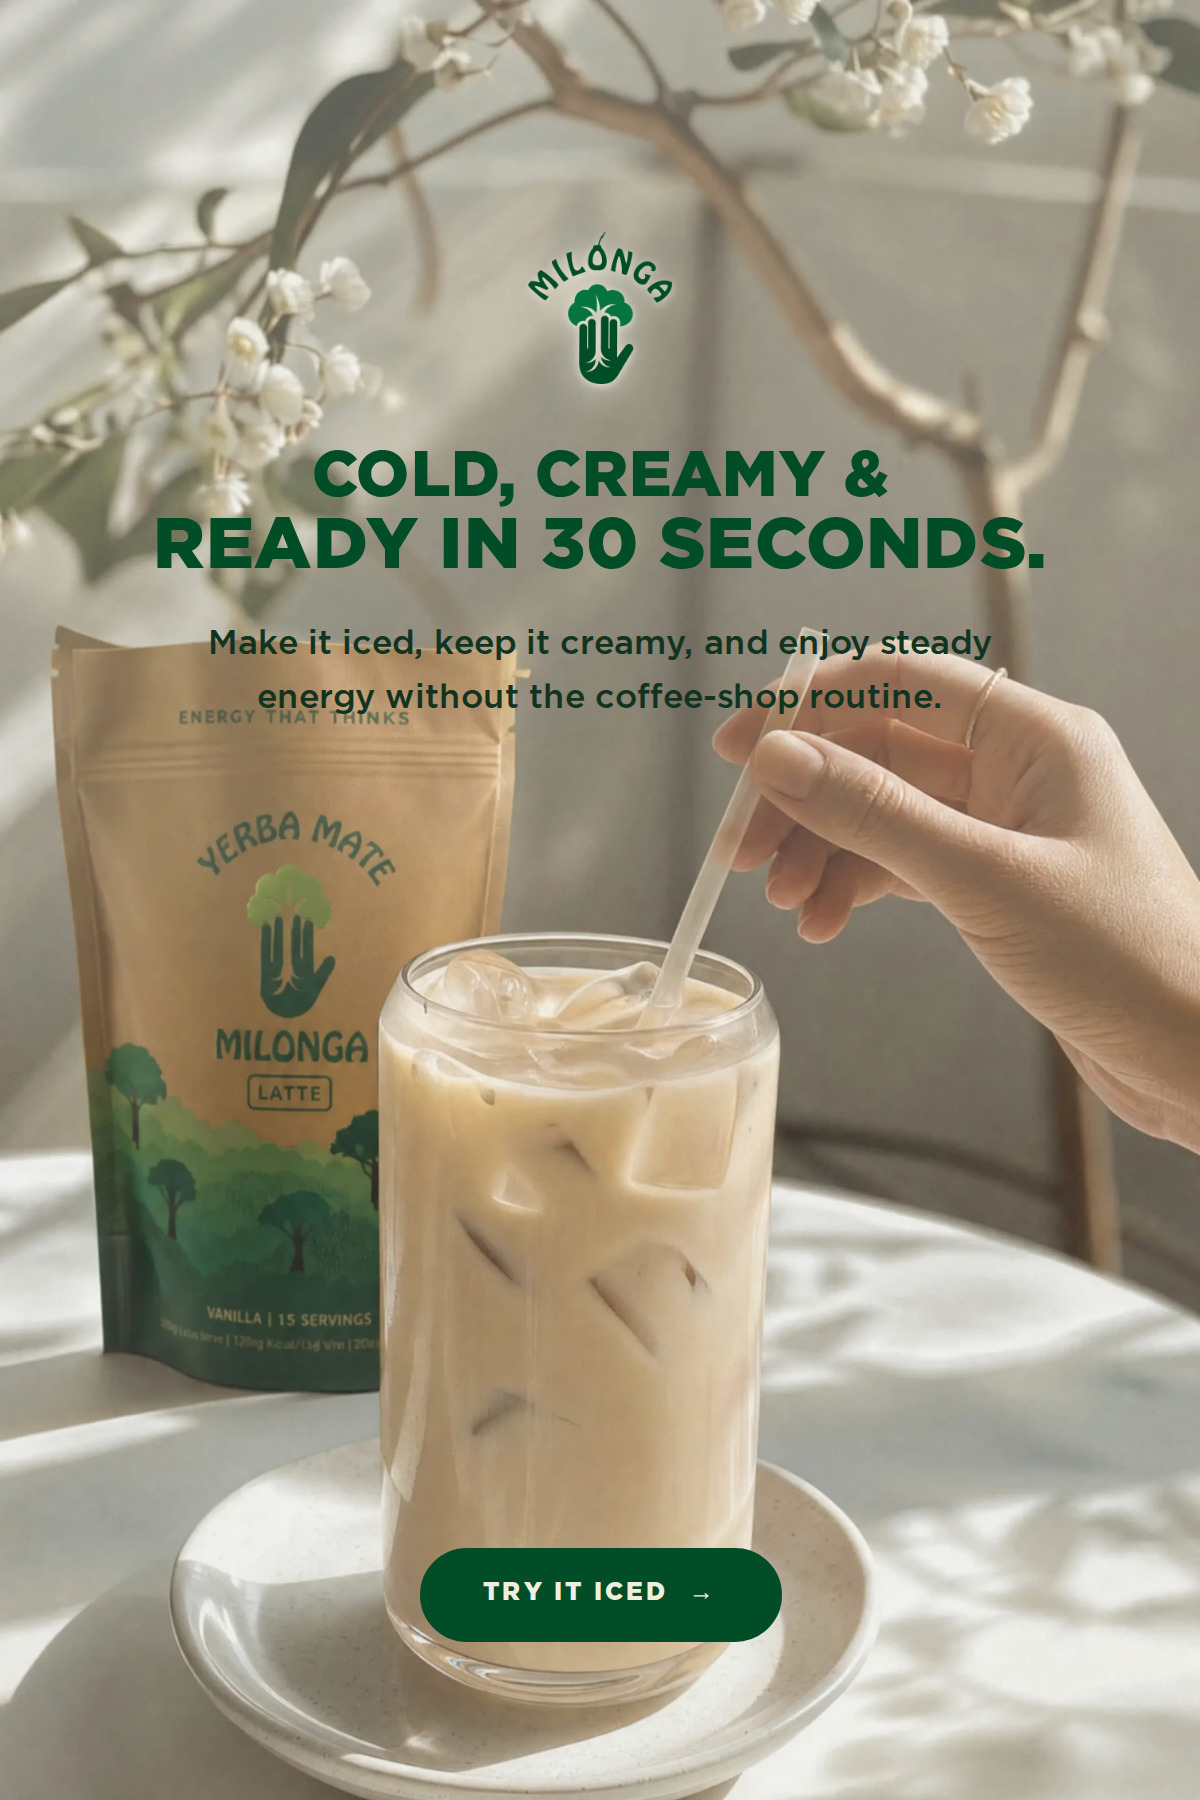
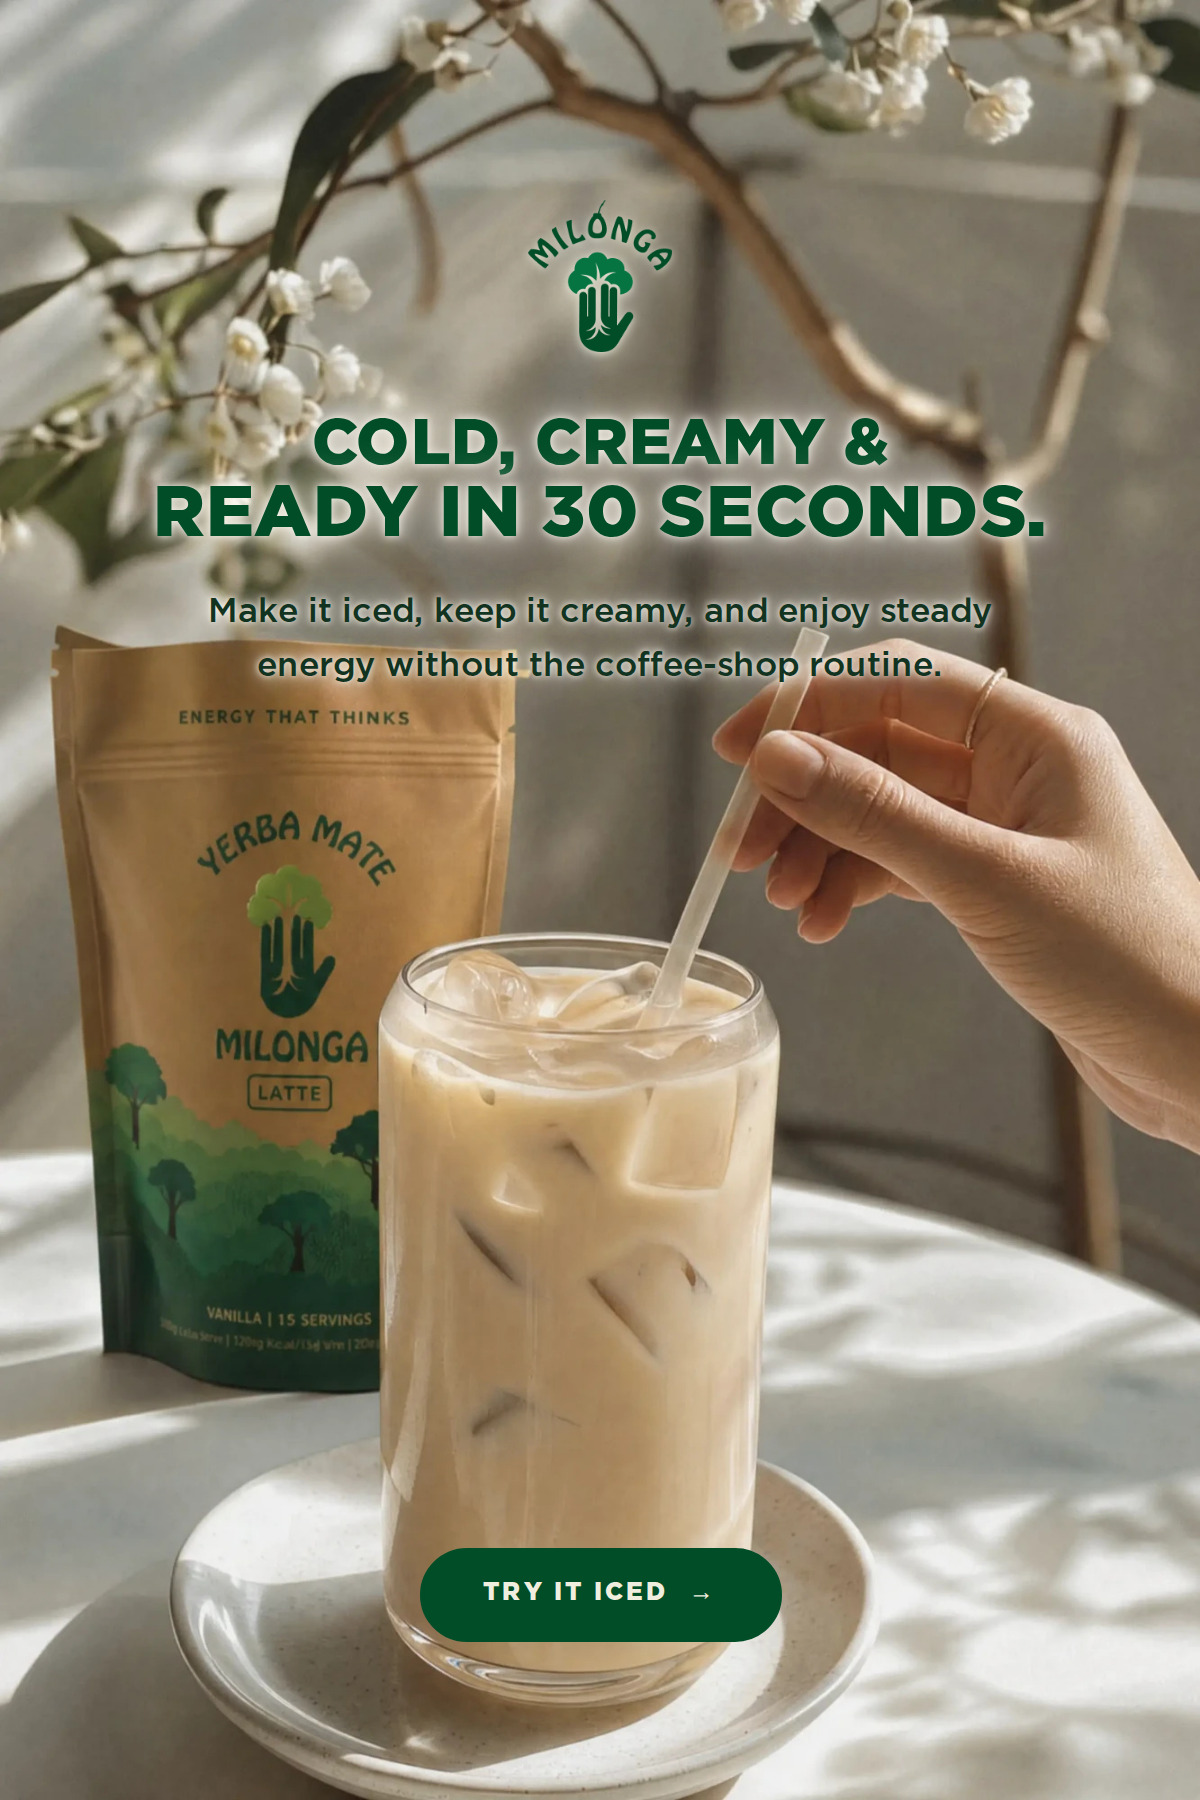
email: how-to-make-it, the photograph goes in untouched
No scrim and no cream lift on the opener. Wordmark up to 16 from the head,
title and paragraph up 16 with it.

The lift was solving a real problem and it still exists: measured across the
band the wordmark occupies, this picture runs a mean of 120 with a minimum of
39 — pale wall and bright blossom crossed by dark twigs, so forest green
holds on the wall and disappears on the twigs. The type carries its own
ground now instead. A CREAM halo sits behind the letters and nowhere else; a
dark halo behind dark letters only thickens them into a smudge, while a pale
one separates them from whatever is underneath and costs the photograph
nothing.

Both split images re-cut at the same colour edge, y=1800.

Claude-Session: https://claude.ai/code/session_01NhEtXPnfeCJfN73SqBkUZ5

diff --git a/email-ds/emails/how-to-make-it.jsx b/email-ds/emails/how-to-make-it.jsx
@@ -19,14 +19,17 @@ function HowToMakeIt() {
     // button below that — the whole reading in the top third, with the glass
     // and the pouch taking the rest of the frame untouched.
     //
-    // THE WASH IS CREAM, NOT A SCRIM. Measured across the band the wordmark
-    // occupies, this picture runs a mean of 120 with a minimum of 39: pale
-    // wall and bright blossom, crossed by dark twigs. Forest green holds on
-    // the wall and disappears on the twigs, which is the whole problem with
-    // a mixed ground. Lifting that band toward cream — the same control as a
-    // scrim, in the other direction — closes the range from underneath and
-    // lets one dark ink hold across all of it, without dimming a morning
-    // photograph to save a hundred letters.
+    // NOTHING IS DONE TO THE PICTURE. No scrim, no cream lift — the
+    // photograph goes in exactly as shot.
+    //
+    // That still leaves the problem the lift was solving. Measured across the
+    // band the wordmark occupies, this picture runs a mean of 120 with a
+    // minimum of 39: pale wall and bright blossom, crossed by dark twigs, and
+    // forest green holds on the wall while it disappears on the twigs. So the
+    // type carries its own ground instead — a CREAM halo, sitting behind the
+    // letters and nowhere else. A dark halo behind dark letters only thickens
+    // them into a smudge; a pale one separates them from whatever is under
+    // them, and costs the photograph nothing at all.
     h(M.T9Story, {
       src: '../public/product/latte-iced-table.jpg',
       alt: 'Cold, creamy and ready in 30 seconds. A tall glass of iced Milonga Mate Latte on a table in morning light, a hand stirring it with a straw, the vanilla Mate Latte pouch behind it and a branch of white blossom above. Try it iced.',
@@ -36,7 +39,7 @@ function HowToMakeIt() {
       // is the brand signing the email; below about 52 it reads as a
       // watermark instead.
       logoHeight: 76,
-      logoTop: 24,
+      logoTop: 16,
       align: 'center',
       line1: 'Cold, creamy &',
       line2: 'ready in 30 seconds.',
@@ -54,14 +57,12 @@ function HowToMakeIt() {
       size: 32,
       size2: 36,
       titleLead: 1.02,
-      top: 116,
+      top: 100,
       padLeft: 26,
       padRight: 26,
       measure: 430,
       ink: 'dark',
-      scrim: 0.5,
-      scrimAt: 'top',
-      halo: 'none',
+      scrim: 0,
     }),
 
     // ── 2 · THE PROCESS ───────────────────────────────────────────────────
